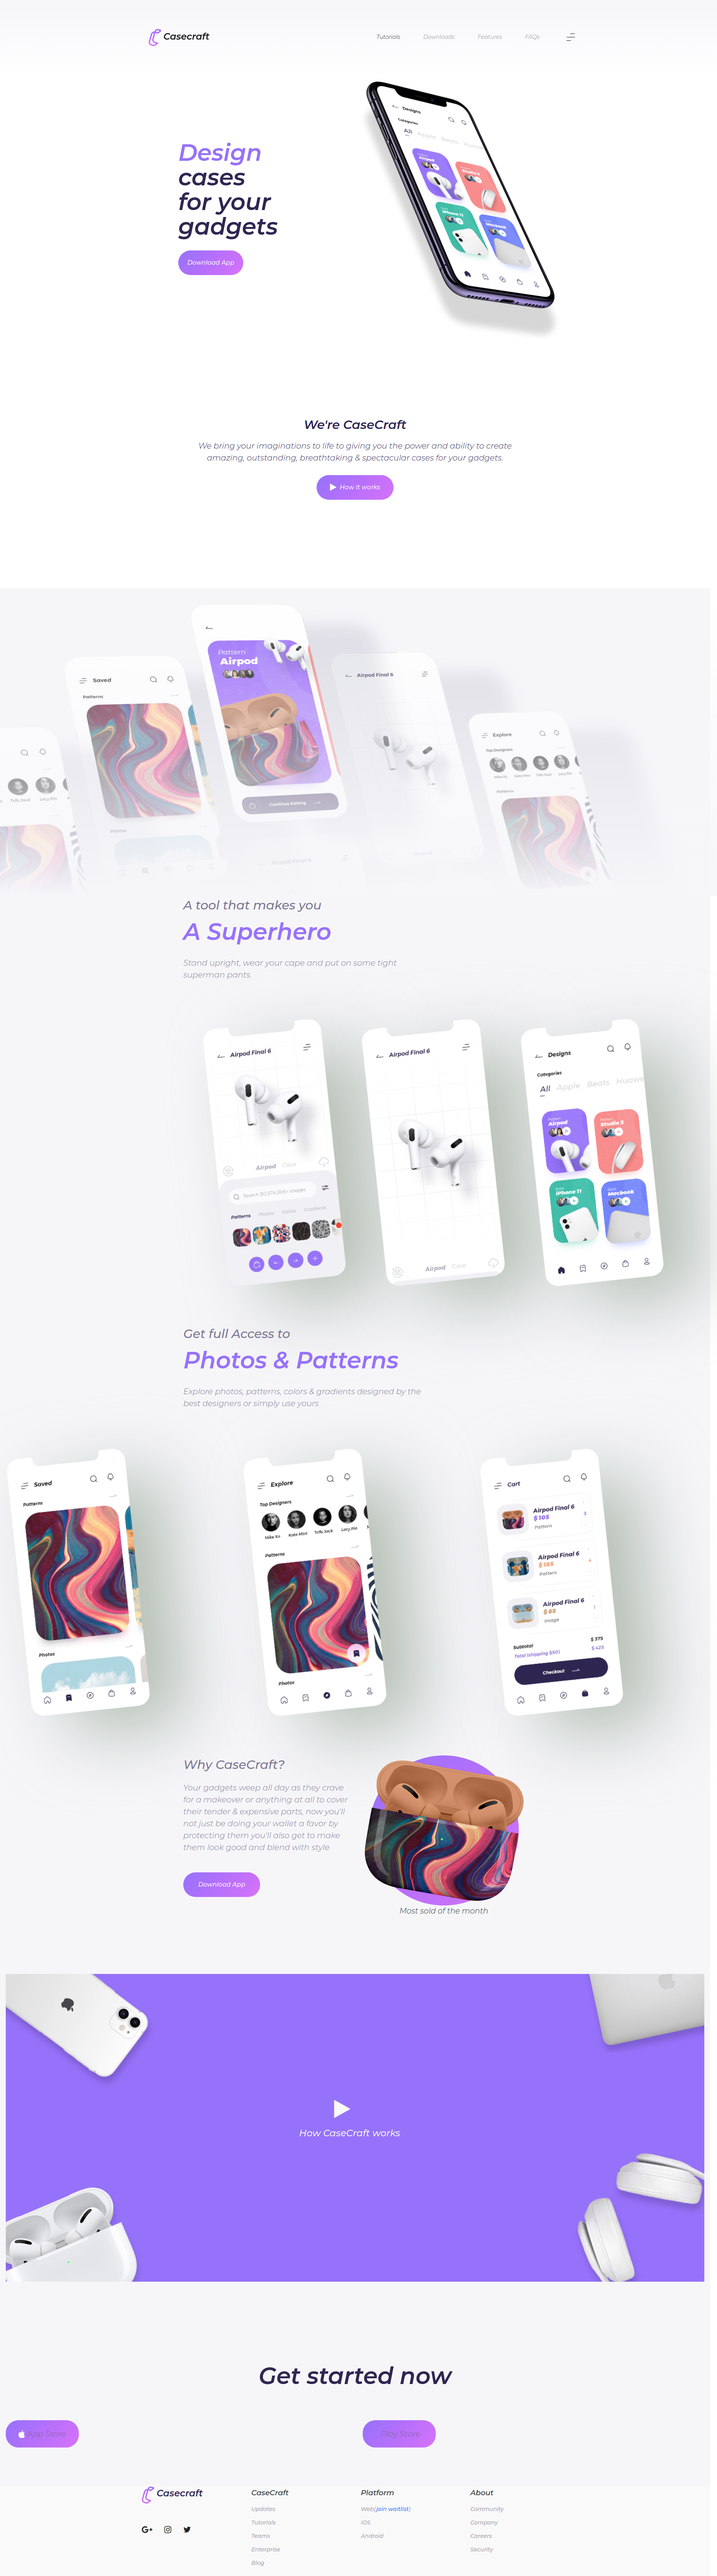
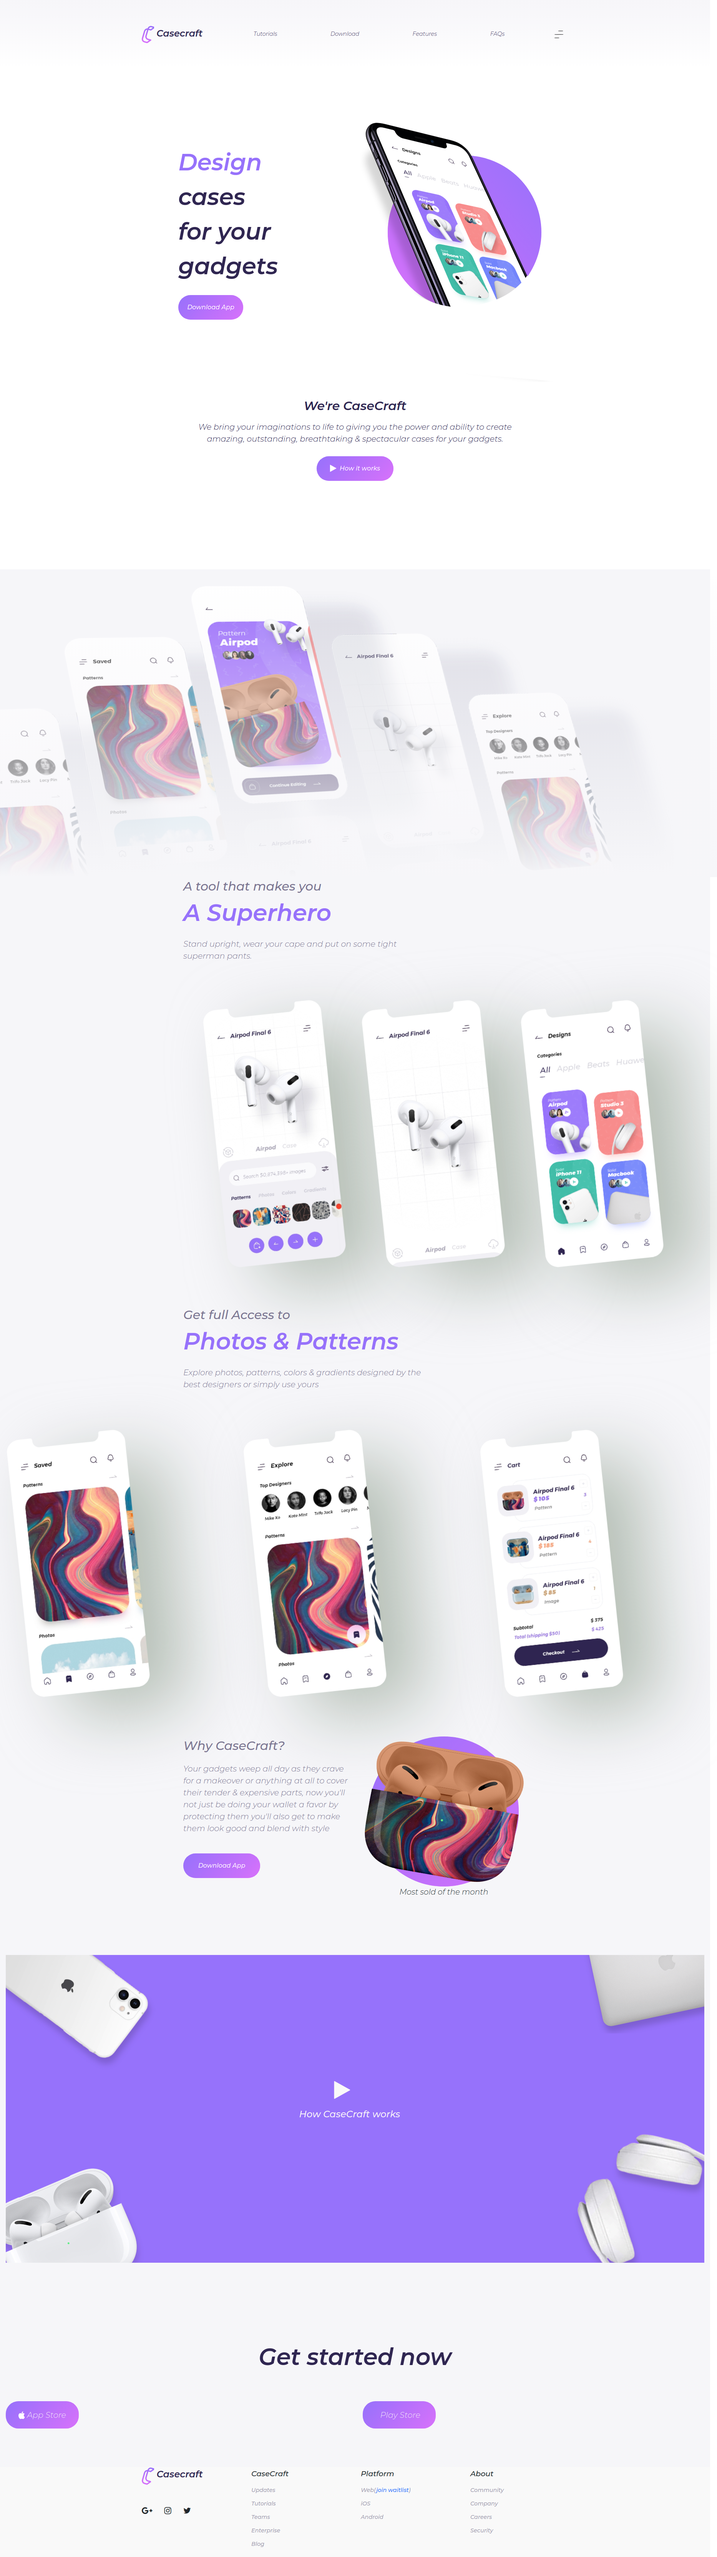
Everything works, somehow ;)

diff --git a/index.html b/index.html
@@ -95,17 +95,18 @@
 
 <!-- Navbar ends here and page begins -->
     <div class="container container-body">
-      <div class="row">
+      <div class="row section-1">
         <div class="col-12 col-sm-5 offset-sm-1 align-self-center">
           <div class="title-1 statement-1">
           <span class="highlighted"> Design</span><br />cases <br /> for your <br /> gadgets<br />
           <button type="button" class="btn btn-primary " >Download App</button>
           </div>
           </div>
-          <div class="col-12 col-sm-6">
+          <div class="col-12 col-sm-6 shell">
+
+              <img class="img phone_first" src="assets/phone_first2.png"> 
             <div class="round-mobile">
             </div>
-              <img class="img-fluid phone_first" src="assets/phone_first.png"> 
           </div>
       </div>
       <!-- next section-->

diff --git a/CSS/styles.css b/CSS/styles.css
@@ -68,6 +68,7 @@ font-weight: 600;
 .container-body{
   margin:200px auto;
 }
+/* for the phone */
 
 .title-1 {
 font-family: var(--unnamed-font-family-montserrat);
@@ -90,14 +91,25 @@ color: var(--unnamed-color-2f2651);
 .highlighted { /*for highlighted text in "blue"*/
   color: #9672FB;
 }
-.phone_first {
-  z-index: 0;
+.section-1 .shell{
+  display:flex;
+  justify-content: center;
+  align-items: center;
+  position:relative;
 }
-.round_mobile{
-  width: 300px;
-  height: 300px;
-  background-color:black;
+
+.round-mobile{
+  width: 400px;
+  height: 400px;
+  border-radius: 50%;
+  background: transparent linear-gradient(-131deg, #9672FB 0%, #D772FB 100%) 0% 0% no-repeat padding-box;
+  right:50px;
 }
+.phone_first{
+  position: absolute;
+  top: -70px;
+}
+
 .btn {
   display:block;
   margin-top:30px;
